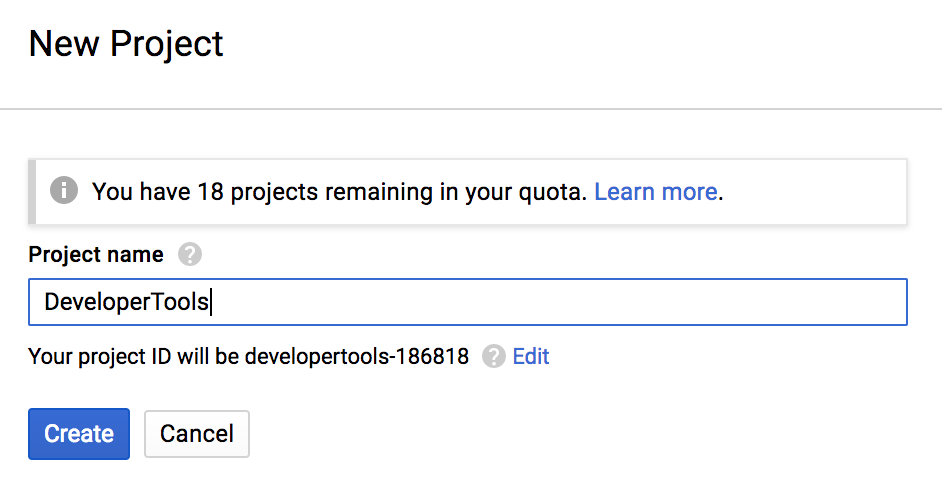
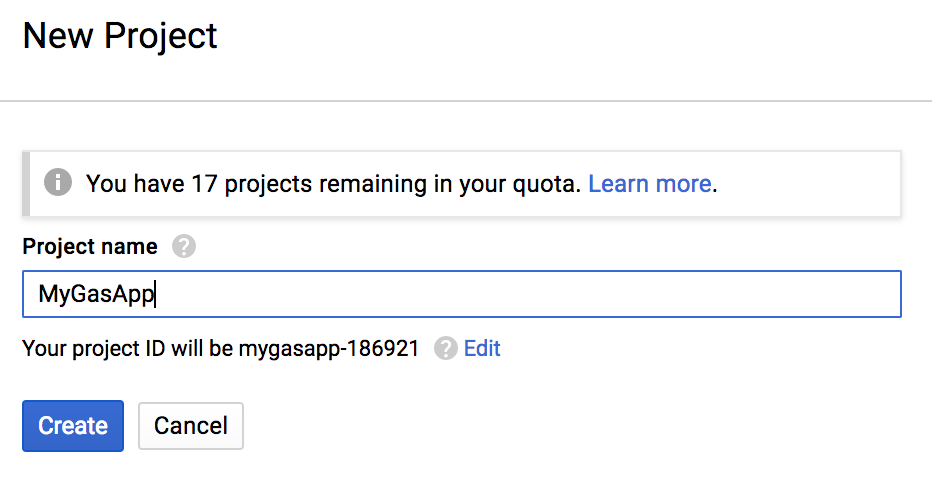
Finishing setup-oauthclient readme

diff --git a/README/how-to-setup-oauthclient.md b/README/how-to-setup-oauthclient.md
@@ -1,23 +1,49 @@
-<img src="https://raw.githubusercontent.com/MaartenDesnouck/google-apps-script/master/images/logo/gas-logo.png" alt="gas logo" title="gas" align="right" height="96" width="96"/>
+<img src="../images/logo/gas-logo.png" alt="gas logo" title="gas" align="right" height="96" width="96"/>
 
 # How to setup a a custom Google OAuth2 client for gas, from A to Z
 
 ## [1] Creating a Google Cloud project
-<i>NOTE: If you already have a project grouping keys for developer tools you might skip this step and go straight to creating keys for gas in that project.</i>
-
 - Go to https://console.cloud.google.com/projectcreate to create a project
-- Pick a good name
-- Maybe also pick a good Project ID instead of the autogenerated one (edit)
+- Pick a 'Project name' (e.g. 'MyGasApp')
+- Click 'Create'
 
-// insert picture
+<img src="../images/readme/setup-oauth-client-1.png"/>
 
+## [2] Setup Oauth consent screen
+- Go to the 'Oauth consent screen'-tab
+- Fill in a 'Product name shown to users' (e.g 'Gas')   
+<br>
+<i> All other fields are optional.   
+(https://raw.githubusercontent.com/MaartenDesnouck/google-apps-script/master/images/logo/gas-logo.png, might be a good 'Product logo URL')</i>
 
+- Click 'Save'
 
-## [2] Creating new credentials
-- creating keys
-- consent screen hmmm
+<img src="../images/readme/setup-oauth-client-2.png"/>
 
-## [3] Configuring gas to use your credentials
-- commands to run
-- run gas config
-- run gas auth
+## [3] Create API credentials
+- Go to the 'Credentials'-tab
+- Click 'Create credentials'
+- Click 'OAuth client ID'
+
+<img src="../images/readme/setup-oauth-client-3.png"/>
+
+- Pick 'Web application'
+- Fill in a 'Name' for the set of credentials you are creating (e.g. gas-credentials-v1)
+- Add 'http://localhost' to the 'Authorized JavaScript origins'
+- Add 'http://localhost' to the 'Authorized redirect URIs'
+- Click 'Create'   
+
+<i> You will get a pop-up with some keys, don't close this pop-up but go to step [4]</i>
+
+<img src="../images/readme/setup-oauth-client-4.png"/>
+
+## [4] Configuring gas to use your credentials
+- Go to your terminal
+- Run 'gas config'
+- Answer the question if you want to use .gs as default extension ('n' will keep the default extension)
+- Answer 'y' to the question if you want to use a custom OAuth 2.0 client
+- Paste the client ID from the pop-up
+- Paste the 'client secret' from the pop-up   
+<i>You should see 'Succesfully configured gas [✔]'</i>
+- Run 'gas auth'
+- You should be redirected to approve your new credentials to make API requests to your Google Drive

diff --git a/README.md b/README.md
@@ -1,4 +1,4 @@
-<img src="https://raw.githubusercontent.com/MaartenDesnouck/google-apps-script/master/images/logo/gas-logo.png" alt="gas logo" title="gas" align="right" height="96" width="96"/>
+<img src="./images/logo/gas-logo.png" alt="gas logo" title="gas" align="right" height="96" width="96"/>
 
 # gas, for locally developing Google Apps Script projects
 
